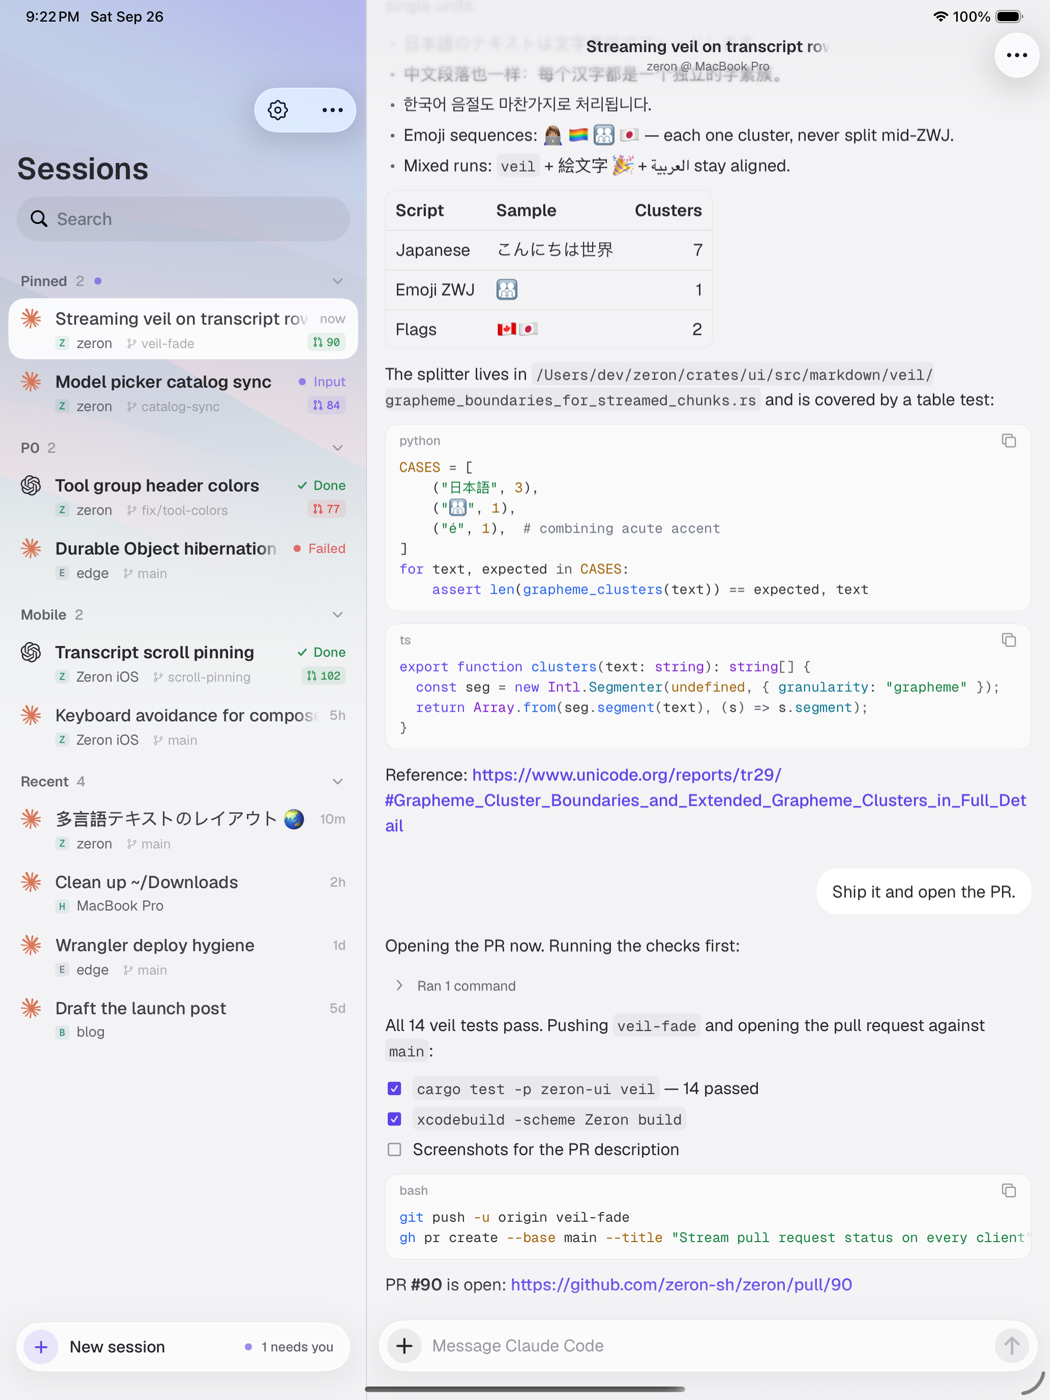
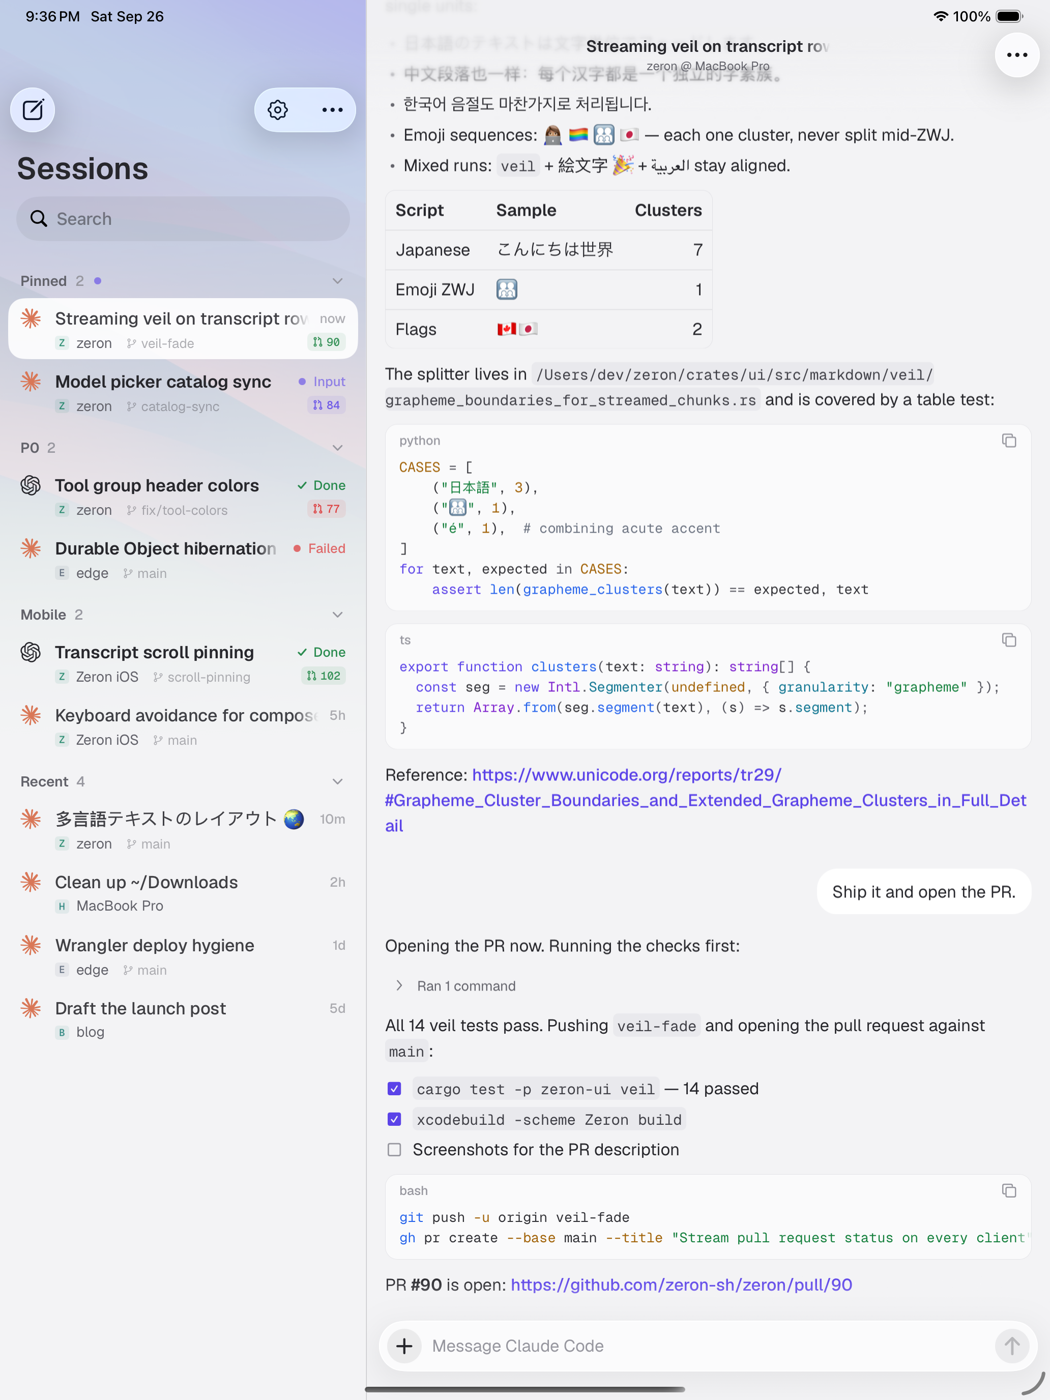
iPad: new session is a compose button at the sidebar's top-left
The floating capsule is the phone's tab-bar accessory; beside a sidebar
the compose button in the bar is where it's expected.

diff --git a/apps/ios/Zeron/Shell/SplitRootController.swift b/apps/ios/Zeron/Shell/SplitRootController.swift
@@ -10,7 +10,7 @@ protocol AppRouter: AnyObject {
 }
 
 /// iPad shell: Zeron mobile with a sidebar. The sidebar is the phone's
-/// Sessions page (same rows, sections, wallpaper, "New session" capsule);
+/// Sessions page (same rows, sections, wallpaper), new session top-left;
 /// the main column shows the open session or the phone's new-session page.
 /// Compact widths (Slide Over, narrow Split View) collapse to the iPhone tab
 /// shell.
@@ -136,17 +136,13 @@ final class SplitRootController: UISplitViewController, UISplitViewControllerDel
 }
 
 /// The iPad sidebar: the phone's Sessions page in its own navigation stack
-/// (sections, folders, Archived push inside it), search in the bar, Settings
-/// beside the options menu, and the "New session" capsule floating at the
-/// bottom as the tab bar's accessory does on iPhone.
+/// (sections, folders, Archived push inside it): new session top-left,
+/// Settings beside the options menu, search in the bar.
 final class SidebarViewController: UIViewController, UISearchResultsUpdating {
     private let app: AppModel
     private let list: SessionsViewController
     private let nav: UINavigationController
     private let search = UISearchController(searchResultsController: nil)
-    private let capsule = Glass.surface(interactive: true)
-    private lazy var accessory = AskAnythingAccessory { [weak self] in self?.router?.presentNewSession(prompt: nil) }
-    private var liveToken: AnyObject?
 
     var currentChatId: String? {
         get { list.currentChatId }
@@ -187,22 +183,12 @@ final class SidebarViewController: UIViewController, UISearchResultsUpdating {
         settings.accessibilityIdentifier = "sidebar-settings"
         list.navigationItem.rightBarButtonItems = [list.navigationItem.rightBarButtonItem, settings].compactMap { $0 }
 
-        capsule.contentView.addSubview(accessory)
-        accessory.translatesAutoresizingMaskIntoConstraints = false
-        capsule.translatesAutoresizingMaskIntoConstraints = false
-        view.addSubview(capsule)
-        NSLayoutConstraint.activate([
-            accessory.topAnchor.constraint(equalTo: capsule.contentView.topAnchor),
-            accessory.bottomAnchor.constraint(equalTo: capsule.contentView.bottomAnchor),
-            accessory.leadingAnchor.constraint(equalTo: capsule.contentView.leadingAnchor),
-            accessory.trailingAnchor.constraint(equalTo: capsule.contentView.trailingAnchor),
-            capsule.leadingAnchor.constraint(equalTo: view.leadingAnchor, constant: 16),
-            capsule.trailingAnchor.constraint(equalTo: view.trailingAnchor, constant: -16),
-            capsule.bottomAnchor.constraint(equalTo: view.safeAreaLayoutGuide.bottomAnchor, constant: -8),
-            capsule.heightAnchor.constraint(equalToConstant: 48),
-        ])
-        // The list scrolls up past the capsule.
-        nav.additionalSafeAreaInsets.bottom = 48 + 16
+        let compose = UIBarButtonItem(image: UIImage(systemName: "square.and.pencil"), primaryAction: UIAction { [weak self] _ in
+            self?.router?.presentNewSession(prompt: nil)
+        })
+        compose.accessibilityLabel = "New session"
+        compose.accessibilityIdentifier = "new-session"
+        list.navigationItem.leftBarButtonItem = compose
 
         // A hairline between the sidebar and the main column.
         let edge = UIView()
@@ -215,12 +201,6 @@ final class SidebarViewController: UIViewController, UISearchResultsUpdating {
             edge.trailingAnchor.constraint(equalTo: view.trailingAnchor),
             edge.widthAnchor.constraint(equalToConstant: 1 / max(1, traitCollection.displayScale)),
         ])
-
-        accessory.update(app.live)
-        liveToken = app.observe { [weak self] in
-            guard let self else { return }
-            self.accessory.update(self.app.live)
-        }
     }
 
     func updateSearchResults(for searchController: UISearchController) {
